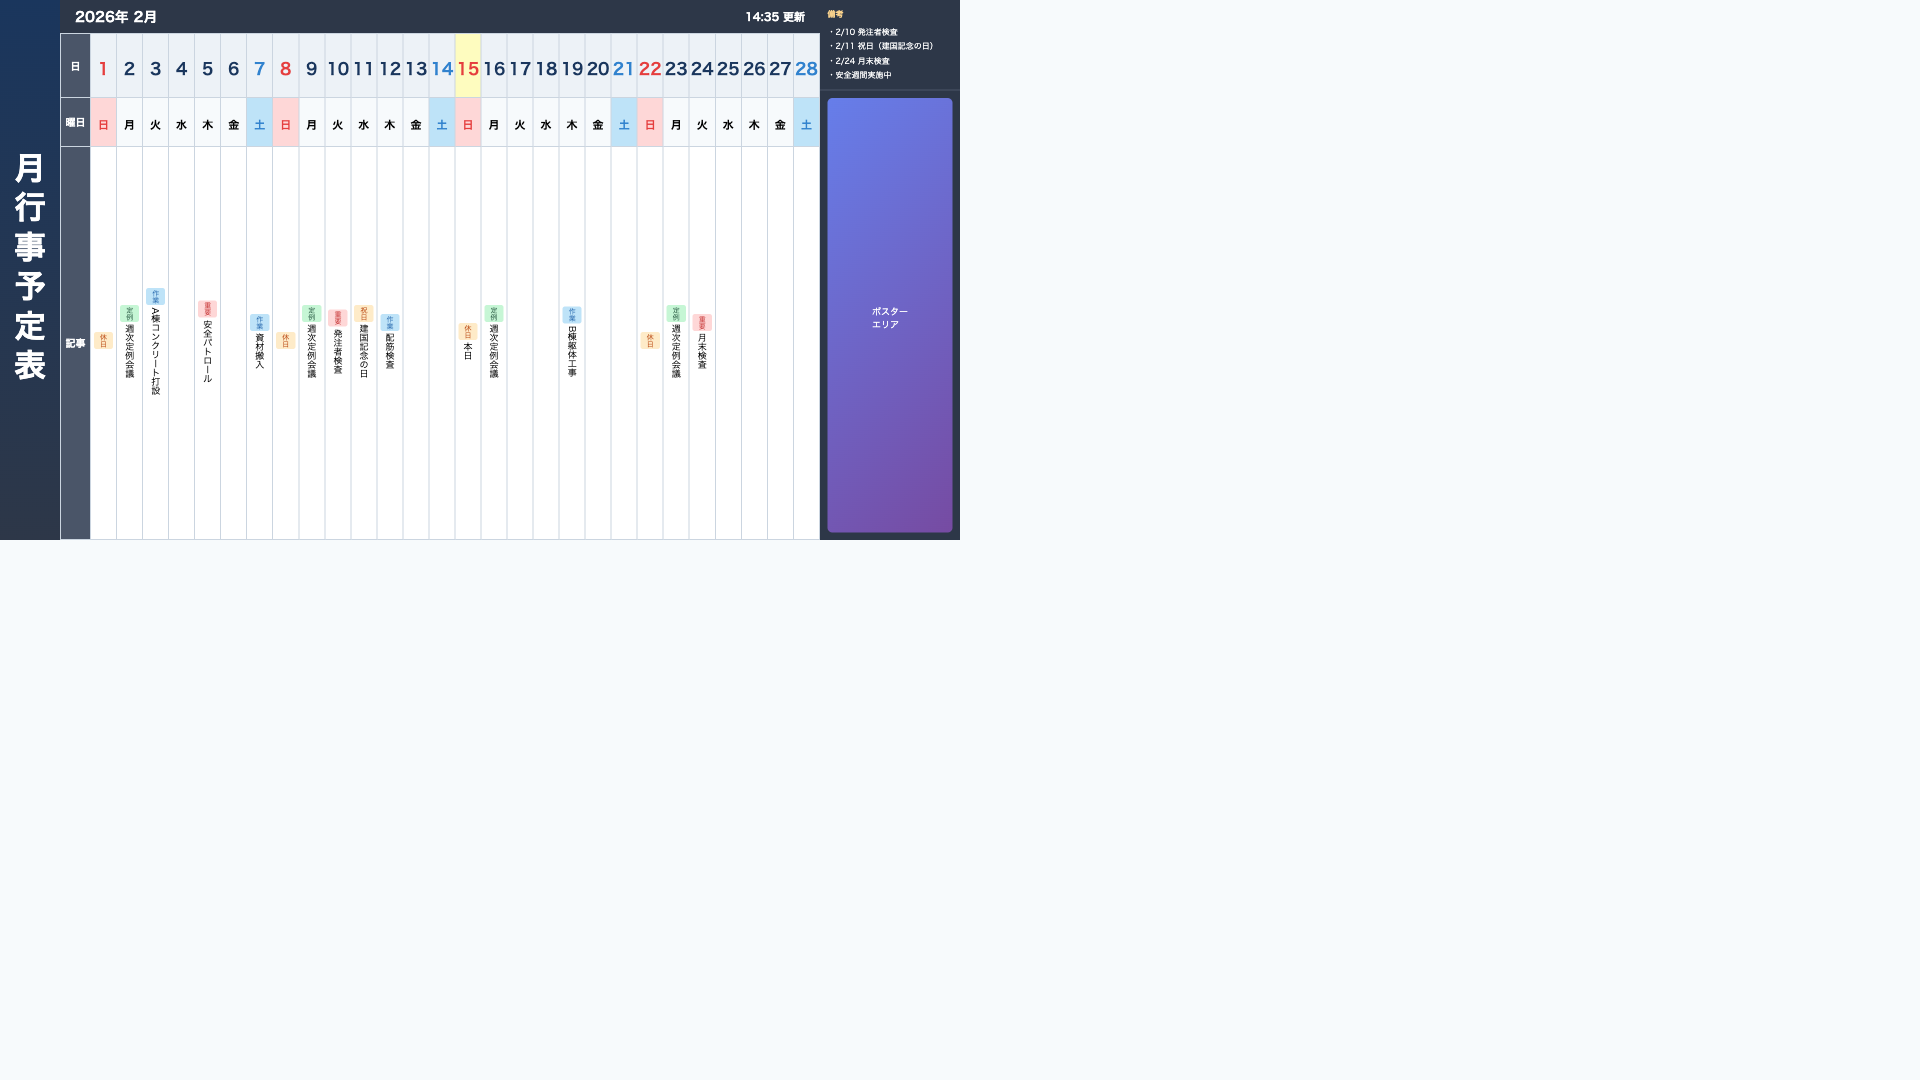
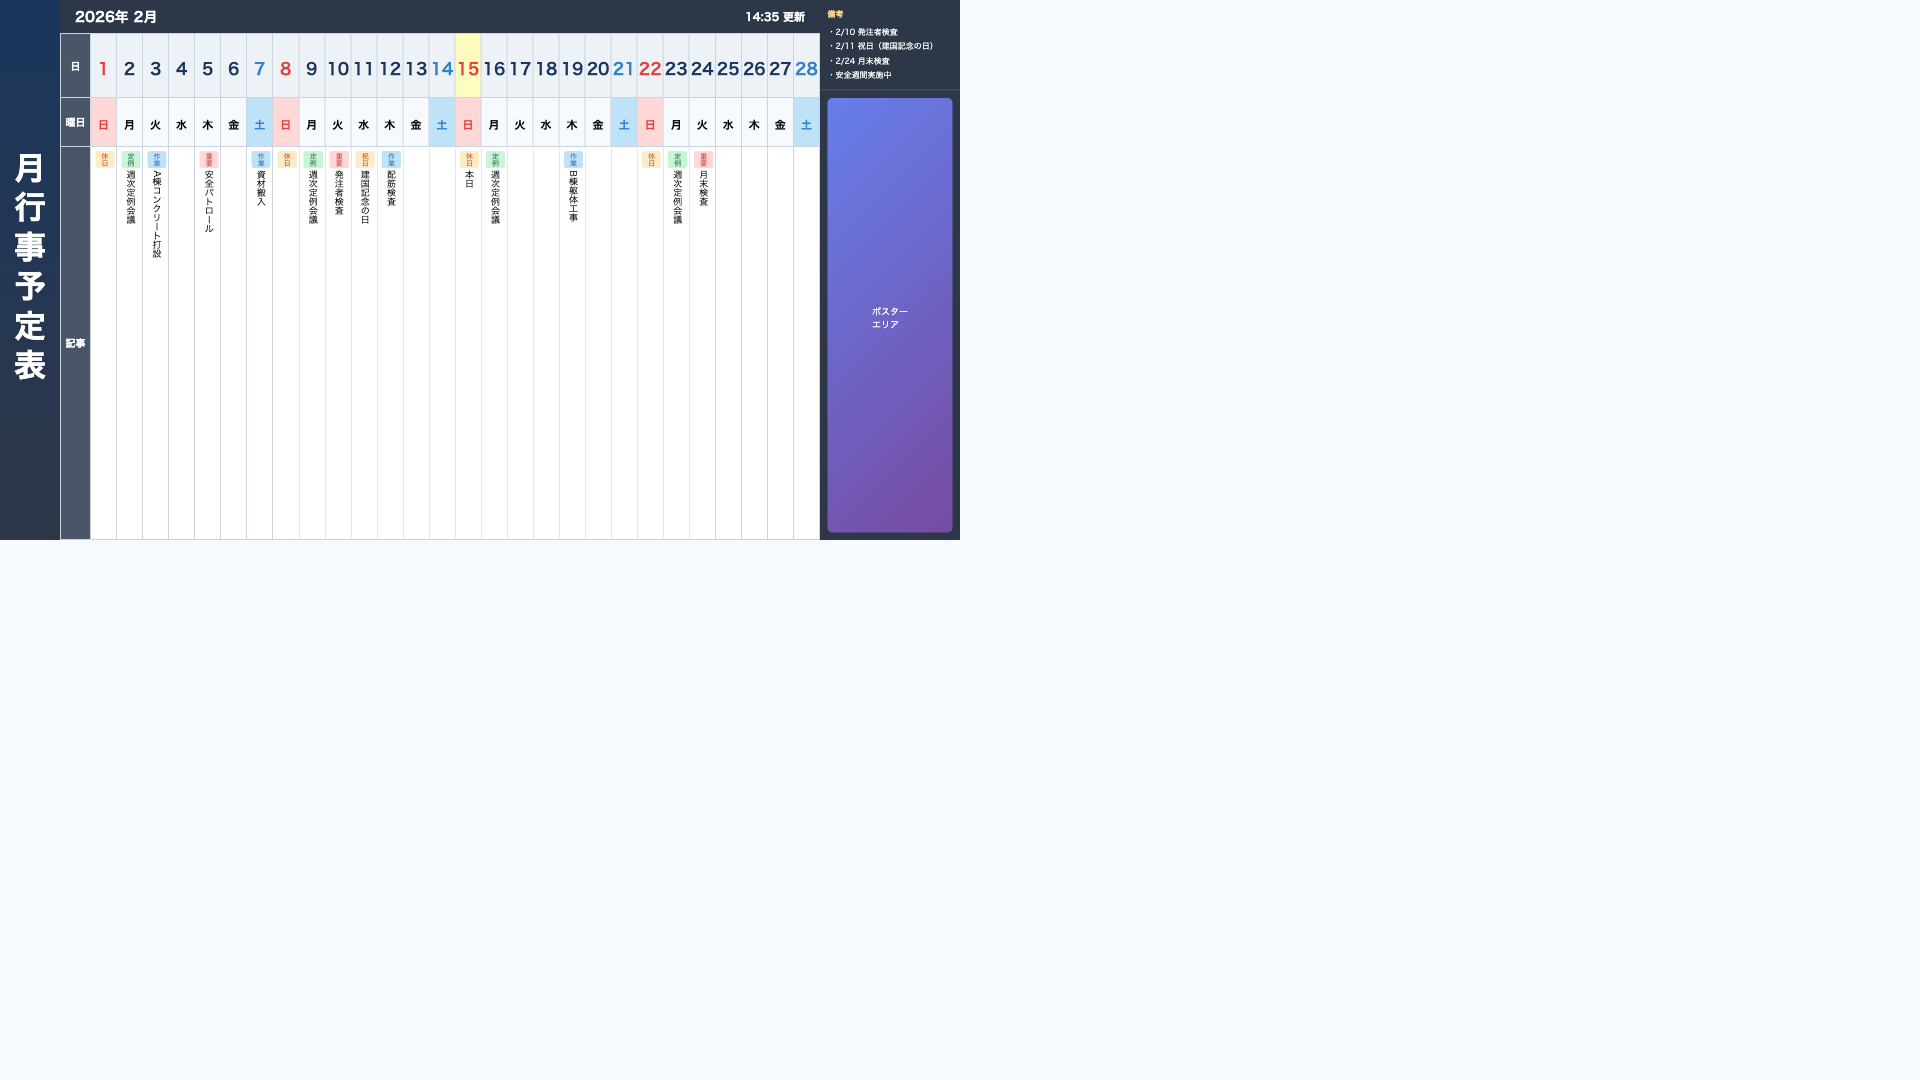
Monthly schedule: fix event cell top alignment with absolute positioning

Changed region(s): [[0.0312, 0.275, 0.375, 0.3667], [0.0312, 0.1222, 0.375, 0.2139]]

diff --git a/screens/horizontal/02_月間行事予定表.html b/screens/horizontal/02_月間行事予定表.html
@@ -122,14 +122,19 @@
     /* 記事行（縦長） */
     .event-cell {
       font-size: 18px;
-      padding: 5px 5px 10px 5px;
-      vertical-align: top;
-      text-align: right;
+      padding: 8px 3px;
       writing-mode: vertical-rl;
       text-orientation: mixed;
       height: 400px;
       background: white;
       line-height: 1.6;
+      position: relative;
+    }
+    .event-cell .event-inner {
+      position: absolute;
+      top: 8px;
+      right: 3px;
+      left: 3px;
     }
     .event-cell .event-tag {
       display: inline-block;
@@ -285,34 +290,34 @@
           <!-- 記事行（縦長） -->
           <tr>
             <th class="row-label">記事</th>
-            <td class="event-cell"><span class="event-tag event-holiday">休日</span></td>
-            <td class="event-cell"><span class="event-tag event-meeting">定例</span>週次定例会議</td>
-            <td class="event-cell"><span class="event-tag event-work">作業</span>A棟コンクリート打設</td>
-            <td class="event-cell"></td>
-            <td class="event-cell"><span class="event-tag event-important">重要</span>安全パトロール</td>
-            <td class="event-cell"></td>
-            <td class="event-cell"><span class="event-tag event-work">作業</span>資材搬入</td>
-            <td class="event-cell"><span class="event-tag event-holiday">休日</span></td>
-            <td class="event-cell"><span class="event-tag event-meeting">定例</span>週次定例会議</td>
-            <td class="event-cell"><span class="event-tag event-important">重要</span>発注者検査</td>
-            <td class="event-cell"><span class="event-tag event-holiday">祝日</span>建国記念の日</td>
-            <td class="event-cell"><span class="event-tag event-work">作業</span>配筋検査</td>
-            <td class="event-cell"></td>
-            <td class="event-cell"></td>
-            <td class="event-cell"><span class="event-tag event-holiday">休日</span>本日</td>
-            <td class="event-cell"><span class="event-tag event-meeting">定例</span>週次定例会議</td>
-            <td class="event-cell"></td>
-            <td class="event-cell"></td>
-            <td class="event-cell"><span class="event-tag event-work">作業</span>B棟躯体工事</td>
-            <td class="event-cell"></td>
-            <td class="event-cell"></td>
-            <td class="event-cell"><span class="event-tag event-holiday">休日</span></td>
-            <td class="event-cell"><span class="event-tag event-meeting">定例</span>週次定例会議</td>
-            <td class="event-cell"><span class="event-tag event-important">重要</span>月末検査</td>
-            <td class="event-cell"></td>
-            <td class="event-cell"></td>
-            <td class="event-cell"></td>
-            <td class="event-cell"></td>
+            <td class="event-cell"><div class="event-inner"><span class="event-tag event-holiday">休日</span></div></td>
+            <td class="event-cell"><div class="event-inner"><span class="event-tag event-meeting">定例</span>週次定例会議</div></td>
+            <td class="event-cell"><div class="event-inner"><span class="event-tag event-work">作業</span>A棟コンクリート打設</div></td>
+            <td class="event-cell"><div class="event-inner"></div></td>
+            <td class="event-cell"><div class="event-inner"><span class="event-tag event-important">重要</span>安全パトロール</div></td>
+            <td class="event-cell"><div class="event-inner"></div></td>
+            <td class="event-cell"><div class="event-inner"><span class="event-tag event-work">作業</span>資材搬入</div></td>
+            <td class="event-cell"><div class="event-inner"><span class="event-tag event-holiday">休日</span></div></td>
+            <td class="event-cell"><div class="event-inner"><span class="event-tag event-meeting">定例</span>週次定例会議</div></td>
+            <td class="event-cell"><div class="event-inner"><span class="event-tag event-important">重要</span>発注者検査</div></td>
+            <td class="event-cell"><div class="event-inner"><span class="event-tag event-holiday">祝日</span>建国記念の日</div></td>
+            <td class="event-cell"><div class="event-inner"><span class="event-tag event-work">作業</span>配筋検査</div></td>
+            <td class="event-cell"><div class="event-inner"></div></td>
+            <td class="event-cell"><div class="event-inner"></div></td>
+            <td class="event-cell"><div class="event-inner"><span class="event-tag event-holiday">休日</span>本日</div></td>
+            <td class="event-cell"><div class="event-inner"><span class="event-tag event-meeting">定例</span>週次定例会議</div></td>
+            <td class="event-cell"><div class="event-inner"></div></td>
+            <td class="event-cell"><div class="event-inner"></div></td>
+            <td class="event-cell"><div class="event-inner"><span class="event-tag event-work">作業</span>B棟躯体工事</div></td>
+            <td class="event-cell"><div class="event-inner"></div></td>
+            <td class="event-cell"><div class="event-inner"></div></td>
+            <td class="event-cell"><div class="event-inner"><span class="event-tag event-holiday">休日</span></div></td>
+            <td class="event-cell"><div class="event-inner"><span class="event-tag event-meeting">定例</span>週次定例会議</div></td>
+            <td class="event-cell"><div class="event-inner"><span class="event-tag event-important">重要</span>月末検査</div></td>
+            <td class="event-cell"><div class="event-inner"></div></td>
+            <td class="event-cell"><div class="event-inner"></div></td>
+            <td class="event-cell"><div class="event-inner"></div></td>
+            <td class="event-cell"><div class="event-inner"></div></td>
           </tr>
         </table>
       </div>
